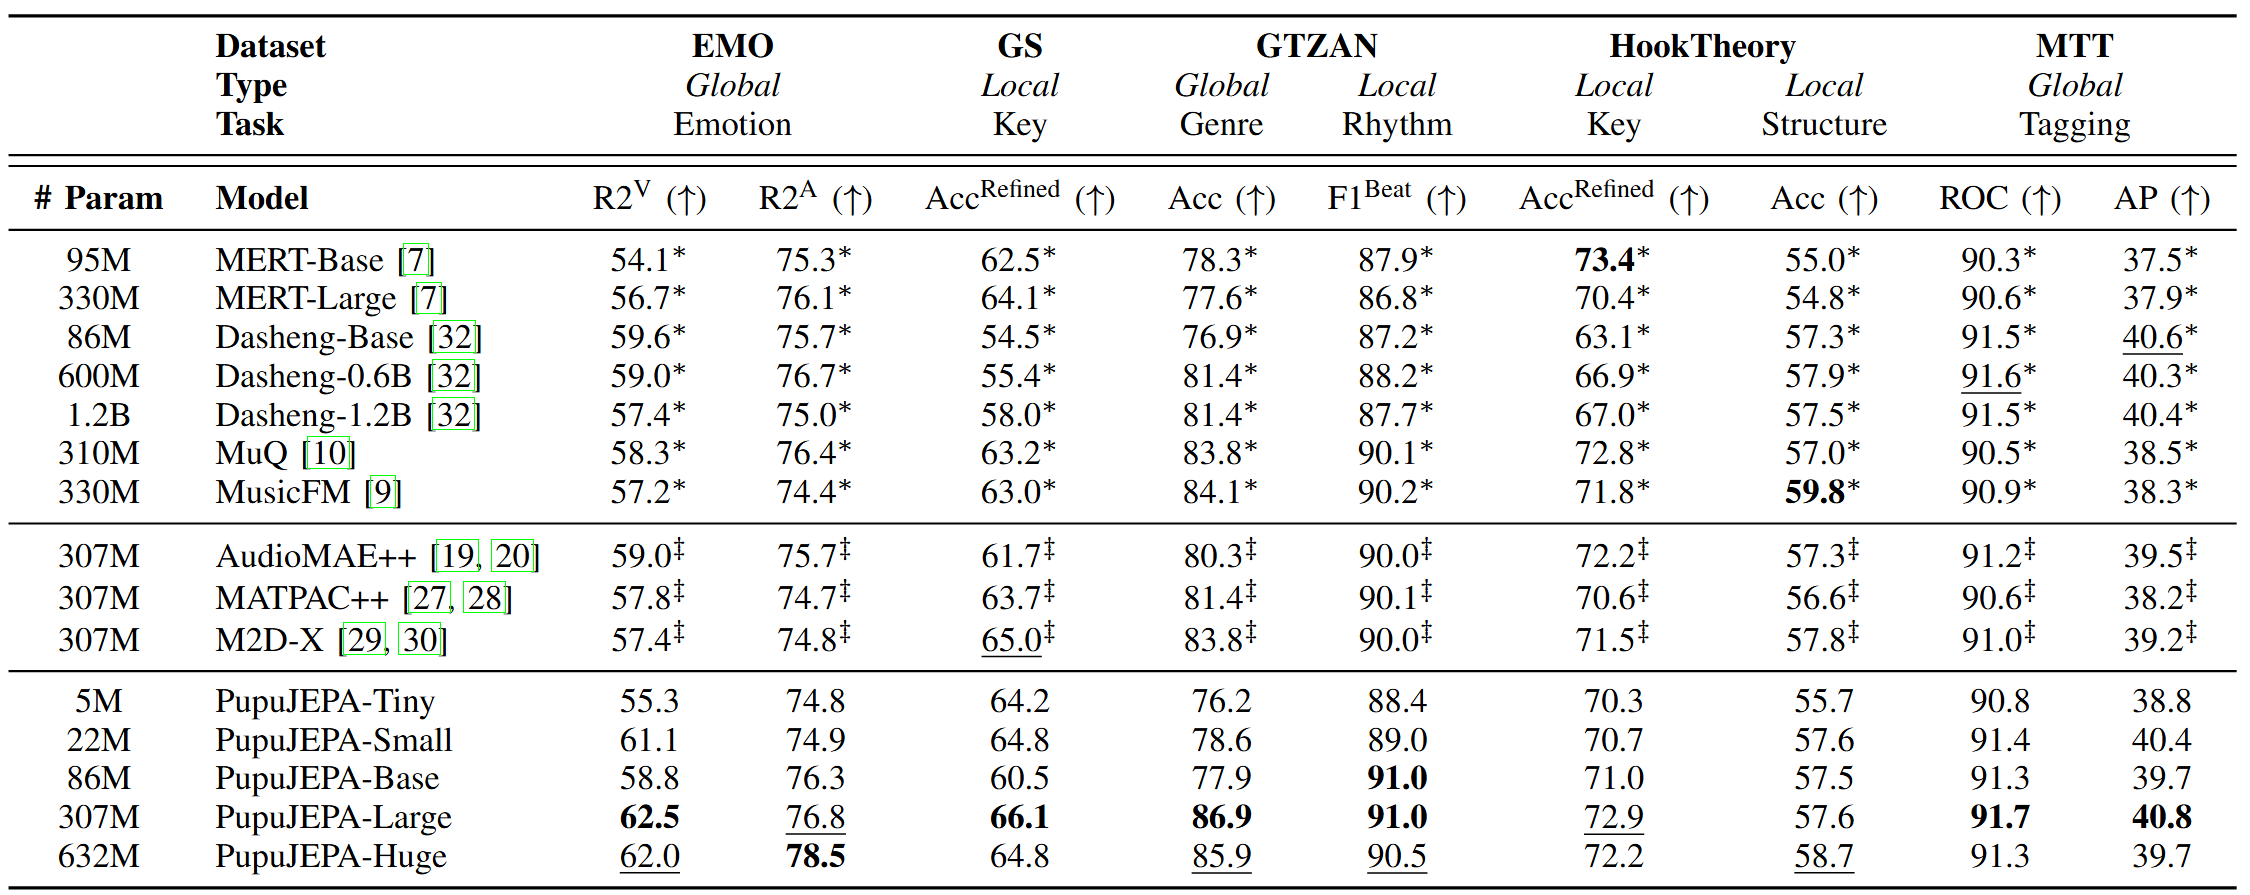
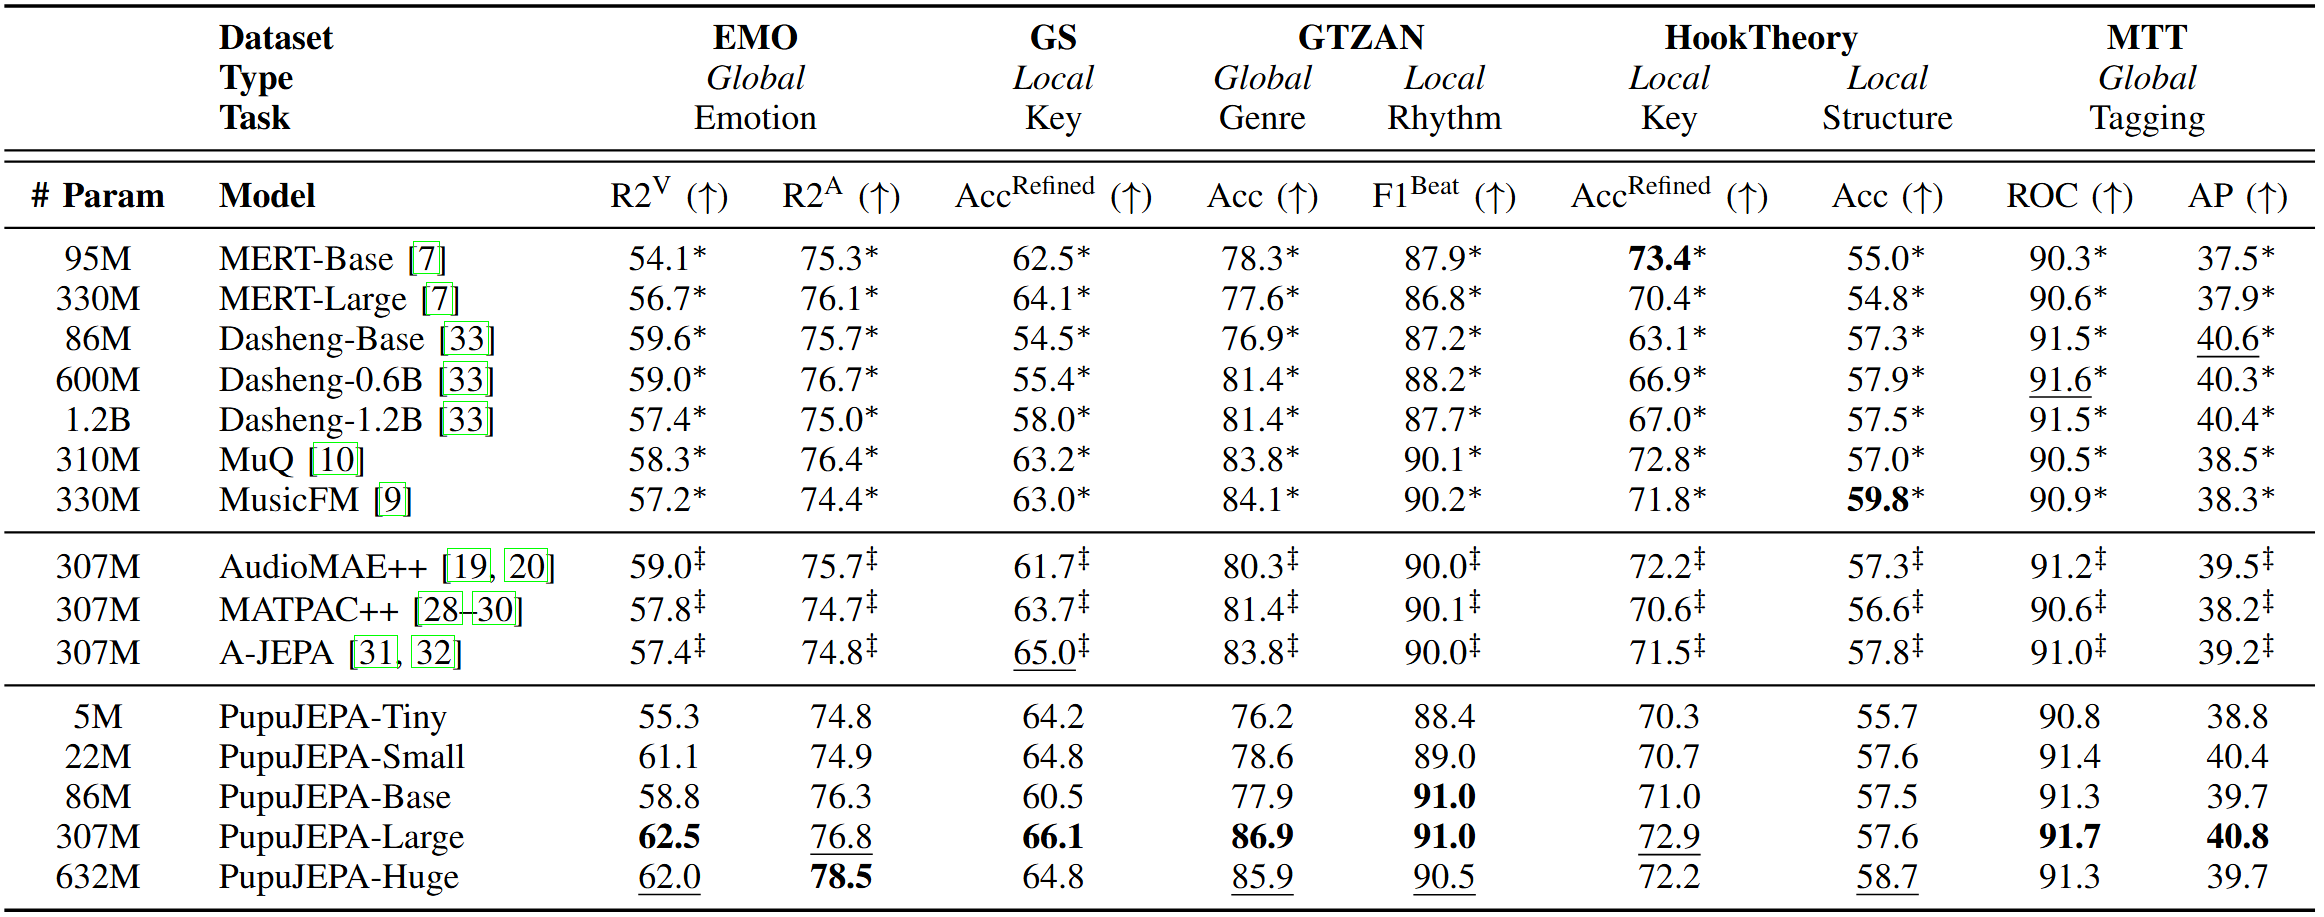
update

Changed region(s): [[0.0, 0.0, 0.9956, 0.9955]]

diff --git a/index.html b/index.html
@@ -313,19 +313,21 @@
               While current SSL models achieve state-of-the-art performance across various MIR tasks, they typically
               treat audio as 1D sequences, either operating on time-domain waveforms or on flattened
               time-frequency-domain spectrograms.
-              This discards the rich spatial and structural information in time-frequency representations, and overlooks
-              a fundamental intuition in music production, where producers can analyze and edit multitrack projects by
-              visually interpreting 2D spectrograms.
-              To bridge this gap, this paper proposes PupuJEPA, a visual Joint-Embedding Predictive Architecture (JEPA)
-              trained directly on spectrograms.
+              This discards the rich spatial and structural information in time-frequency representations and overlooks
+              a fundamental intuition in music production.
+              In particular, music is naturally represented as time-frequency grids in MIDI-based workflows, a structure
+              that tightly corresponds to 2D spectrograms and inherently makes many MIR tasks trivial.
+              Motivated by this intuition, we propose PupuJEPA, a visual Joint-Embedding Predictive Architecture (JEPA)
+              that is trained directly on 2D spectrograms.
               Instead of applying masked language modeling (MLM) to 1D sequences, PupuJEPA learns robust representations
-              by predicting the latent embeddings of masked 2D spectrogram patches from unmasked contexts.
-              We additionally apply domain-specific modifications to the model architecture, training scheme, and
-              inference paradigm to optimally adapt such a visual framework to music signals.
+              by predicting the latent embeddings of masked 2D spectrogram patches from unmasked contexts. To optimally
+              adapt such a visual framework to music signals, we also apply domain-specific modifications to model
+              architecture, training scheme, and inference paradigm, with comprehensive ablation studies showing their
+              effectiveness.
               Evaluations on the MARBLE benchmark show that PupuJEPA outperforms the 1D sequence-based SSL models across
               multiple MIR tasks in linear probing.
-              Meanwhile, visualizing the models' attention maps further illustrates that PupuJEPA can capture musically
-              meaningful patterns that inherently align with the intuition of music producers.
+              Additionally, case studies of the attention maps also confirm that PupuJEPA captures musically meaningful
+              patterns within the 2D time-frequency domain.
             </p>
           </div>
 
@@ -339,8 +341,10 @@
             </p>
             <p class="text-p text-justify leading-relaxed [text-align-last:left]">
               As a former music producer and DJ, neither I nor any of my friends would use the audio waveform as a
-              reference for producing, mixing, or mastering. Instead, we see real-time FFT spectra, observe STFT or CQT
-              spectrograms, and analyze the Sound Field Map.
+              reference for producing, mixing, or mastering. Instead, we use <em>Piano Rolls</em> for production, we
+              observe real-time <em>FFT spectra</em> from FabFilter Pro-Q 4 for mixing and sound design, and eventually
+              use Izotope RX to analyze the resulting song based on its <em>Mel-Spectrogram</em>. All of these are in 2D
+              time-frequency domain, instead of 1D time domain.
             </p>
             <div class="notion-callout"
               style="display: flex; padding: 16px; border-radius: 4px; background: rgba(235, 236, 237, 0.3);">
@@ -463,9 +467,10 @@
               </div>
             </div>
             <p class="text-p text-justify leading-relaxed [text-align-last:left]">
-              Music producers inherently can map individual track components to time-frequency patterns in the 2D
-              spectrogram. Since they can extract track-level information from the spectrogram, they can therefore
-              naturally conduct MIR tasks, as shown in the figure below:
+              The multi-track project is a structure that strongly correlates to the 2D spectrogram, and music producers
+              inherently can map time-frequency partterns in the 2D spectrogram to individual tracks and
+              "mentally reconstruct" the project, therefore making a lot of MIR tasks intuitively trival, as shown in
+              the figure below:
             </p>
             <div class="w-full mt-8 mb-6 rounded-lg overflow-hidden border border-gray-200 shadow-sm">
               <img src="./static/pupujepa-intuition.png" alt="FL Studio Playlist"
@@ -484,7 +489,8 @@
               spectrogram patches are highly temporally and spectrally correlated. We did not use the DINO architecture,
               as music signals inherently lack data augmentation methods to obtain different views. To optimize such a
               framework in the music domain, we additionally introduce various essential changes to the model
-              architecture, training scheme, and inference paradigms. The details are in our <a href="TBD">paper</a>.
+              architecture, training scheme, and inference paradigms. For more details, please checkout our <a
+                href="TBD">preprint</a>.
             </p>
           </div>
 
@@ -502,7 +508,7 @@
               sequence-based music and general sound SSL baselines, we compare with MERT (ICLR 2024), Dasheng
               (Interspeech 2024), MuQ
               (TASLP 2025), and MusicFM (ICASSP 2024); for 2D spectrogram-based audio SSL baselines, we compare
-              with AudioMAE++ (NeurIPS 2022, MLSP 2025), MATPAC++ (ICASSP 2025), and M2D-X (TASLP 2024). For music and
+              with AudioMAE++ (NeurIPS 2022, MLSP 2025), MATPAC++ (ICASSP 2025), and A-JEPA (2023). For music and
               general sound SSL baselines, we directly use the pre-trained checkpoint and code from MARBLE; for audio
               SSL baselines, we re-implemented the model and re-trained them using our in-house datasets under the exact
               same configuration provided in their paper. We
@@ -524,21 +530,31 @@
             </div>
             <p class="text-p text-justify leading-relaxed [text-align-last:left]">
               We additionally conduct a case study by visualizing the attention map of the predictor during masked
-              latent prediction. As illustrated in the figure above, the bottom-left panel illustrates the attention map
-              when PupuJEPA tries to predict a masked Kick drum; instead of simply looking at the surrounding pixels,
-              its attention spans broadly across the music segment, selectively highlighting other Kick drum
-              distributions with similar rhythm patterns. Conversely, the bottom-right panel shows the attention map
-              when PupuJEPA tries to recover the masked root notes of a Lead sound. It spans across three key aspects.
-              Firstly, the model seeks the remaining unmasked higher harmonics of that specific Lead sound. Meanwhile,
-              the model focuses closely on the adjacent melodic Lead progressions just before the masked region. Lastly
-              and most remarkably, the attention map also highlights a structurally similar Lead progression from an
-              earlier section of the track, showing the model's ability to capture long-range dependencies rather than
-              just performing local interpolation.
+              latent prediction. As illustrated in the figure above, the bottom panels show the corresponding 2D
+              spectrograms regarding the multi-track project overlaid with the attention heatmaps. Note that the color
+              bars displayed on the right of the bottom panels denote the attention weights rather than the energy of
+              the spectrograms. The red bounding boxes denote the masked target regions that the model aims to predict,
+              while the other colored bounding boxes map individual track components to their corresponding
+              time-frequency patterns in the 2D spectrogram, specifically highlighting the regions that has high
+              attention weights.
             </p>
             <p class="text-p text-justify leading-relaxed [text-align-last:left]">
-              Such comprehensive visual evidence strongly validates our core motivation. By explicitly modeling 2D
-              spectrograms, PupuJEPA naturally enables zero-shot source disentanglement, harmonic tracking, and
-              long-range musical structural analysis, aligning with human music producers' visual intuition.
+              The bottom-left panel illustrates the attention map when PupuJEPA tries to predict a masked Kick drum.
+              It can be observed that, instead of simply looking at the surrounding pixels, its attention spans broadly
+              across the music segment, selectively highlighting other Kick drum distributions with similar rhythm
+              patterns.
+              Conversely, the bottom-right panel shows the attention map when PupuJEPA tries to recover the masked root
+              notes of a Lead sound. its attention spans across the remaining unmasked harmonics and the adjacent
+              melodic progressions just before the masked region, showing its ability to understand musical
+              context.
+            </p>
+            <p class="text-p text-justify leading-relaxed [text-align-last:left]">
+              Such visual evidence strongly validates our core intuition. Just like
+              music producers can "mentally reconstruct" a multi-track project from a 2D spectrogram, the PupuJEPA,
+              pre-trained
+              directly on music spectrograms, also develops this capability. As in the case study, PupuJEPA
+              naturally enables zero-shot disentanglement of individual tracks and long-range musical structural
+              analysis, thereby making many MIR tasks trivial to probe and achieving the SOTA performance.
             </p>
           </div>
         </div>